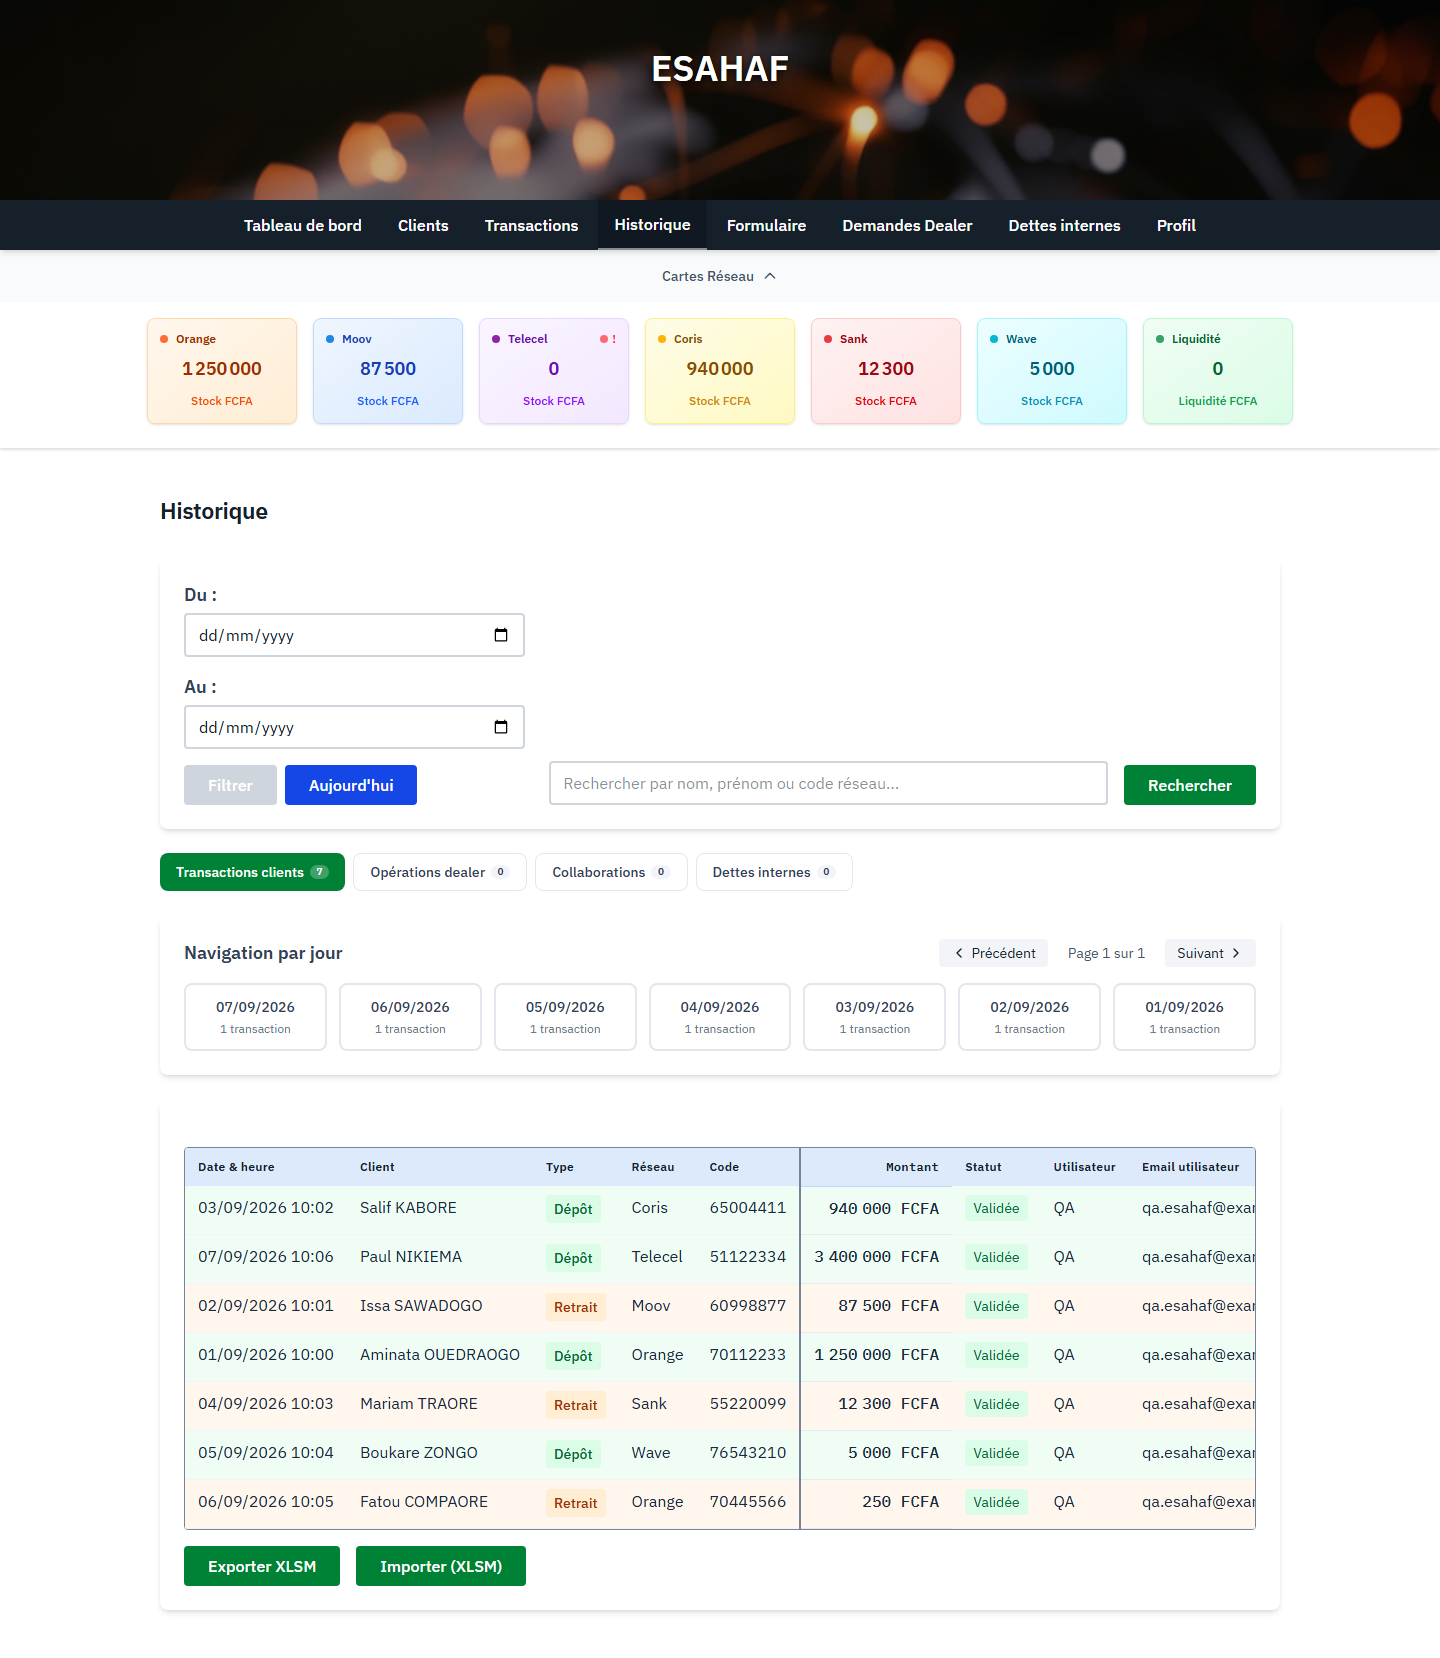
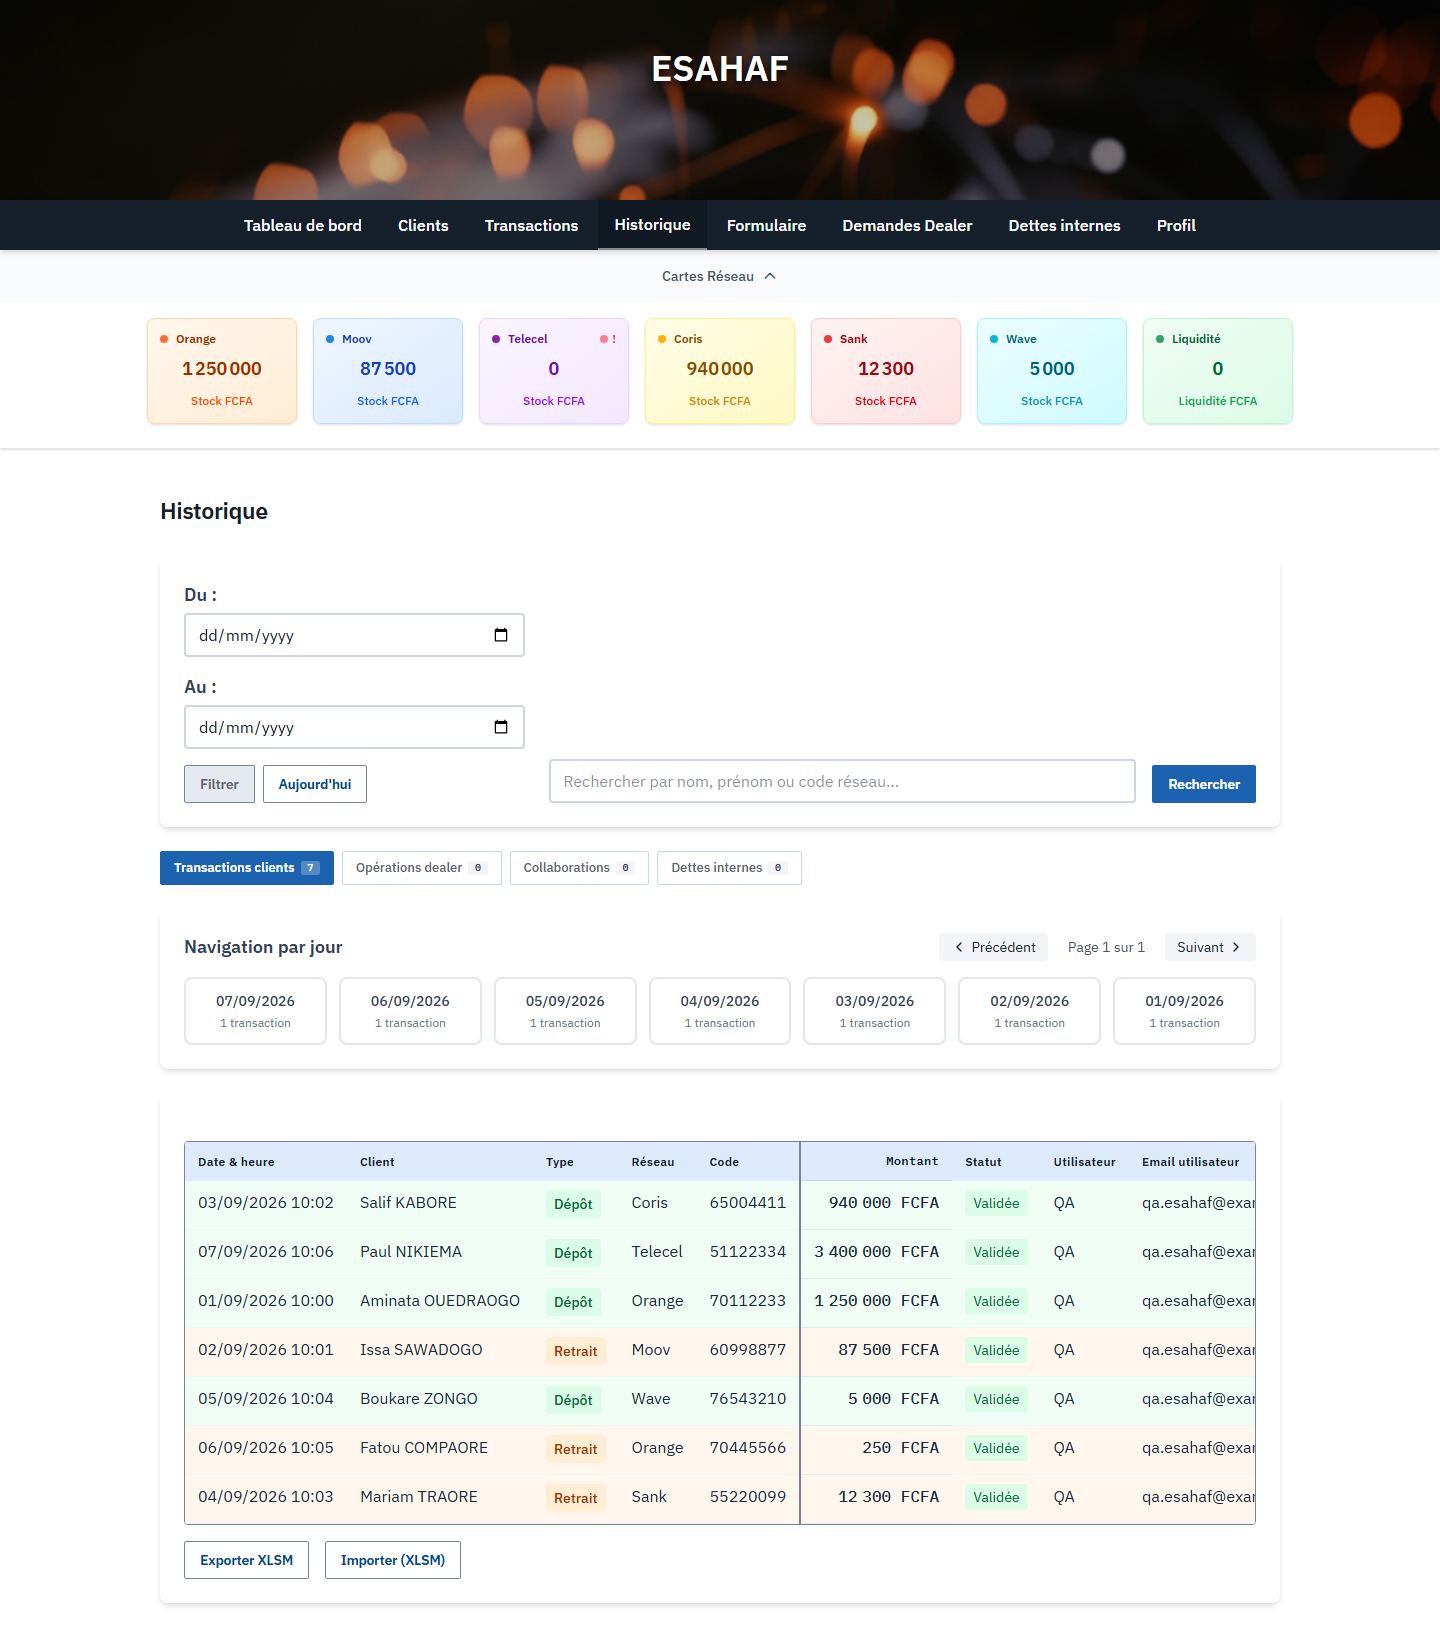
feat(design): L7.3 — une couleur d'action dit le rang, et un seul primaire par ecran
RESTYLE PUR, sous `.design-registre [data-espace="boutique"]`. Aucun comportement,
aucun texte. TAOFIC et les espaces admin/dealer gardent leurs classes Tailwind
d'origine dans le JSX et ne peuvent declencher aucune de ces regles.

LE DEFAUT

Sur l'historique, SIX aplats pleins se disputaient l'attention : « Rechercher »,
« Filtrer » et les deux exports en `bg-green-700`, « Aujourd'hui » et
« Appliquer les filtres » en `bg-blue-700`, plus l'onglet actif en pilule verte.
Aucune hierarchie : l'oeil ne pouvait pas savoir lequel fait avancer le travail.

JE N'AI PAS TRANCHE LE RANG MOI-MEME

J'allais choisir entre « Rechercher » et « Filtrer » comme action principale. La
maquette avait deja repondu : `bouton--primaire` sur « Rechercher »,
`bouton--second` sur « Filtrer », « Aujourd'hui » et « Exporter ». Un seul
primaire par ecran — sinon quatorze boutons pleins feraient une bande de couleur
qui entrerait en concurrence avec lui.

L'ONGLET REJOINT LE MEME SYSTEME

Une fois l'action primaire passee au bleu de marque, la pilule verte de l'onglet
actif devenait le plus SONORE des deux : deux couleurs franches pour deux choses
differentes — « tu es ici » et « fais ceci ». Il n'y a plus qu'un systeme.
Le compteur d'onglet passe en chasse fixe tabulaire : c'est un nombre qui se
compare, trois et douze ne doivent pas demander un effort de lecture different.

UN BOUTON DESACTIVE DOIT RESTER LISIBLE

« Filtrer » etait en `disabled:bg-gray-300` avec du texte blanc — environ 1,6:1 :
[…]

diff --git a/src/index.css b/src/index.css
@@ -497,6 +497,124 @@ body {
    suppression du fond sémantique, quand le sens sera porté par le signe, le mot
    et la couleur du MONTANT — jamais par la ligne entière. */
 
+/* ═══════════════════════════════════════════════════════════════════════════
+   LE RANG DES ACTIONS (lot L7.3)
+   ───────────────────────────────────────────────────────────────────────────
+   Sur l'historique, quatre boutons pleins se disputaient l'attention :
+   « Rechercher » et « Filtrer » en `bg-green-700`, « Aujourd'hui » et
+   « Appliquer les filtres » en `bg-blue-700`, « Exporter XLSM » et
+   « Importer (XLSM) » en vert encore. Six aplats, aucune hiérarchie : l'œil ne
+   peut pas savoir lequel fait avancer le travail.
+
+   La maquette le dit sans détour : « une couleur d'action dit le RANG ». Elle
+   n'accorde qu'UN SEUL primaire par écran — sur l'historique, « Rechercher » —
+   et met tout le reste en contour. Les quatorze boutons d'une colonne d'actions
+   feraient sinon une bande de couleur qui entrerait en concurrence avec lui.
+
+   `data-rang` est un FAIT : l'importance de cette action dans cet écran. Il ne
+   dit rien d'une couleur, et il est inerte partout où cette feuille ne
+   s'applique pas — TAOFIC, l'espace admin, l'espace dealer.
+   ═══════════════════════════════════════════════════════════════════════════ */
+
+.design-registre [data-espace='boutique'] [data-rang] {
+  font-size: 0.84375rem; /* 13,5px */
+  font-weight: 600;
+  padding: 0.5rem 0.9375rem;
+  border-radius: 2px;
+  border: 1px solid transparent;
+  white-space: nowrap;
+  cursor: pointer;
+  transition: background-color 0.15s, border-color 0.15s;
+}
+
+/* L'UNIQUE action qui fait avancer le travail de l'écran. Blanc sur
+   --brand-500 : 6,14:1, mesuré par `npm run qa:jetons`. */
+.design-registre [data-espace='boutique'] [data-rang='primaire'] {
+  background: var(--color-brand-500);
+  color: #fff;
+}
+.design-registre [data-espace='boutique'] [data-rang='primaire']:hover {
+  background: var(--color-brand-600);
+}
+
+/* Tout le reste : un contour, pas un aplat. Le texte en --brand-600 tient
+   9,39:1 sur le papier, et le contour en --filet 3,81:1 — au-dessus des 3:1
+   qu'exige WCAG 1.4.11 pour la limite d'un composant d'interface. */
+.design-registre [data-espace='boutique'] [data-rang='second'] {
+  background: var(--color-papier);
+  color: var(--color-brand-600);
+  border-color: var(--color-filet);
+}
+.design-registre [data-espace='boutique'] [data-rang='second']:hover {
+  background: var(--color-surface-100);
+  border-color: var(--color-brand-500);
+}
+
+/* L'action qui TERMINE l'opération d'une ligne : contour de marque, épaissi.
+   Elle se distingue d'un second sans devenir un aplat de plus. */
+.design-registre [data-espace='boutique'] [data-rang='accent'] {
+  background: var(--color-papier);
+  color: var(--color-brand-600);
+  border-color: var(--color-brand-500);
+  border-width: 2px;
+  padding: 0.4375rem 0.875rem;
+}
+
+/* Ce qui détruit ou annule. --echec tient 7,87:1 sur le papier. */
+.design-registre [data-espace='boutique'] [data-rang='danger'] {
+  background: var(--color-papier);
+  color: var(--color-echec);
+  border-color: var(--color-filet);
+}
+
+/* ⚠ UN BOUTON DÉSACTIVÉ DOIT RESTER LISIBLE.
+   Le dépôt rend « Filtrer » en `disabled:bg-gray-300` avec du texte blanc —
+   environ 1,6:1 : le verbe DISPARAÎT au lieu d'être désactivé, et l'utilisateur
+   ne sait plus ce que le bouton fera quand il redeviendra possible. WCAG exempte
+   les contrôles désactivés du seuil de contraste ; ce n'est pas une raison de
+   les rendre illisibles.
+   --encre-doux sur --reglure : 4,96:1, mesuré par `npm run qa:jetons`. */
+.design-registre [data-espace='boutique'] [data-rang]:disabled {
+  background: var(--color-reglure);
+  color: var(--color-encre-doux);
+  border-color: var(--color-filet);
+  cursor: not-allowed;
+}
+
+/* ── L'onglet, même règle de rang ───────────────────────────────────────────
+   L'onglet actif était une pilule `bg-green-700` : le dernier aplat vert de
+   l'écran, et depuis que l'action primaire est passée en bleu de marque, le plus
+   SONORE des deux. Deux couleurs franches qui disent deux choses différentes —
+   « tu es ici » et « fais ceci » — se disputaient le regard.
+
+   L'onglet actif prend donc la marque, comme dans la maquette : c'est le même
+   système qui dit où l'on est et ce qu'on peut faire, et il n'y en a qu'un. */
+.design-registre [data-espace='boutique'] .onglet {
+  font-size: 0.8125rem;
+  font-weight: 500;
+  padding: 0.4375rem 0.8125rem;
+  background: var(--color-papier);
+  border: 1px solid var(--color-trait-200);
+  border-radius: 2px;
+  color: var(--color-encre-doux);
+}
+.design-registre [data-espace='boutique'] .onglet--actif {
+  background: var(--color-brand-500);
+  border-color: var(--color-brand-500);
+  color: #fff;
+  font-weight: 600;
+}
+
+/* Le compteur d'un onglet est un NOMBRE QUI SE COMPARE : chasse fixe tabulaire,
+   comme tous les nombres du produit. Trois en attente et douze en attente ne
+   doivent pas demander un effort de lecture différent. */
+.design-registre [data-espace='boutique'] .onglet__compte {
+  font-family: var(--font-plex-mono);
+  font-variant-numeric: tabular-nums;
+  font-feature-settings: 'tnum' 1;
+  border-radius: 2px;
+}
+
 /* ── Écran de connexion ─────────────────────────────────────────────────────
    Le rendu 'legacy' sert un dégradé `from-blue-50 to-indigo-100` — le tic que
    DESIGN.md §1 désigne nommément, sur le premier écran que voit l'utilisateur.

diff --git a/src/components/ui/Tabs.jsx b/src/components/ui/Tabs.jsx
@@ -11,7 +11,15 @@
  */
 
 export function tabButtonClass(active) {
-  return `px-4 py-2 text-sm font-medium rounded-lg transition-colors focus:outline-none focus-visible:ring-2 focus-visible:ring-green-500 inline-flex items-center ${
+  // `onglet` / `onglet--actif` sont des marqueurs SÉMANTIQUES, pas des
+  // utilitaires : ils disent ce que l'élément EST, et l'identité « registre »
+  // décide de son apparence dans src/index.css. Ils sont inertes partout
+  // ailleurs — aucune règle ne les cible hors de la portée —, donc TAOFIC et les
+  // espaces admin/dealer rendent exactement ce qu'ils rendaient.
+  //
+  // Une classe plutôt qu'un `data-*` ici, parce que cette fonction renvoie une
+  // CHAÎNE DE CLASSES : un attribut aurait obligé à toucher chaque appelant.
+  return `onglet ${active ? 'onglet--actif' : ''} px-4 py-2 text-sm font-medium rounded-lg transition-colors focus:outline-none focus-visible:ring-2 focus-visible:ring-green-500 inline-flex items-center ${
     active ? 'bg-green-700 text-white' : 'bg-white text-gray-700 border border-gray-200 hover:bg-gray-50'
   }`
 }
@@ -35,7 +43,7 @@ export function TabBadge({ count, tone = 'neutral', active = false, testId, labe
 
   return (
     <span
-      className={`ml-1.5 inline-flex items-center justify-center rounded-full px-1.5 py-0.5 text-[10px] font-bold leading-none min-w-[1.2rem] ${cls}`}
+      className={`onglet__compte ml-1.5 inline-flex items-center justify-center rounded-full px-1.5 py-0.5 text-[10px] font-bold leading-none min-w-[1.2rem] ${cls}`}
       aria-label={label}
       data-testid={testId}
     >

diff --git a/src/components/historique/DateFilter.jsx b/src/components/historique/DateFilter.jsx
@@ -76,7 +76,7 @@ function DateFilter({ onDateChange, onResetToToday }) {
       
       {/* Boutons d'action */}
       <div className="flex gap-2">
-        <button
+        <button data-rang="second"
           onClick={handleFilter}
           disabled={!isValidDateRange() || (!dateFrom && !dateTo)}
           className="bg-green-700 hover:bg-green-800 disabled:bg-gray-300 disabled:cursor-not-allowed text-white px-6 py-2 rounded font-medium transition-colors"
@@ -84,7 +84,7 @@ function DateFilter({ onDateChange, onResetToToday }) {
           Filtrer
         </button>
         
-        <button
+        <button data-rang="second"
           onClick={handleResetToToday}
           className="bg-blue-700 hover:bg-blue-800 text-white px-6 py-2 rounded font-medium transition-colors"
         >

diff --git a/src/components/historique/HistoriqueFilters.jsx b/src/components/historique/HistoriqueFilters.jsx
@@ -95,7 +95,7 @@ function HistoriqueFilters({ onFiltersChange, activeFilters }) {
 
         {/* Boutons d'action */}
         <div className="flex flex-col justify-end space-y-2">
-          <button
+          <button data-rang="second"
             onClick={handleFilterChange}
             className="bg-blue-700 hover:bg-blue-700 text-white px-4 py-2 rounded-md transition-colors text-sm"
           >
@@ -103,7 +103,7 @@ function HistoriqueFilters({ onFiltersChange, activeFilters }) {
           </button>
 
           {hasActiveFilters && (
-            <button
+            <button data-rang="second"
               onClick={clearFilters}
               className="bg-gray-500 hover:bg-gray-600 text-white px-4 py-2 rounded-md transition-colors text-sm"
             >

diff --git a/src/components/historique/ActionButtons.jsx b/src/components/historique/ActionButtons.jsx
@@ -111,14 +111,14 @@ function ActionButtons({ filteredTransactions = [], resetFilters }) {
       )}
 
       <div className="flex flex-wrap gap-4">
-        <button
+        <button data-rang="second"
           onClick={handleExport}
           className="bg-green-700 hover:bg-green-800 text-white px-6 py-2 rounded font-medium transition-colors"
         >
           Exporter XLSM
         </button>
 
-        <button
+        <button data-rang="second"
           onClick={handleImport}
           className="bg-green-700 hover:bg-green-800 text-white px-6 py-2 rounded font-medium transition-colors"
         >

diff --git a/src/components/historique/ClientSearch.jsx b/src/components/historique/ClientSearch.jsx
@@ -40,7 +40,7 @@ function ClientSearch({ onSearch, onSearchChange }) {
         />
       </div>
       
-      <button
+      <button data-rang="primaire"
         onClick={handleSearch}
         className="bg-green-700 hover:bg-green-800 text-white px-6 py-2 rounded font-medium transition-colors"
       >
